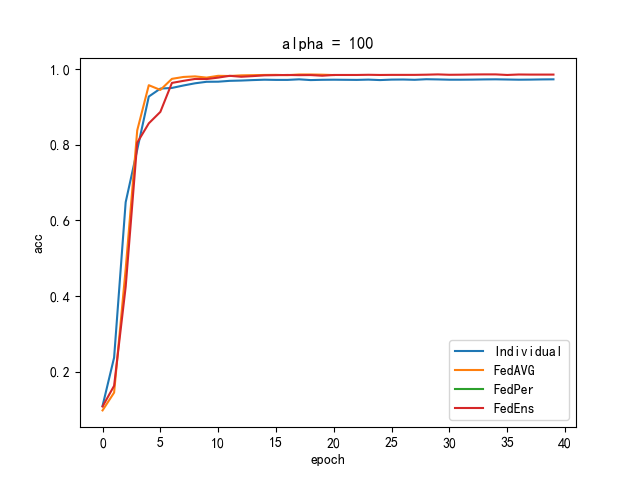
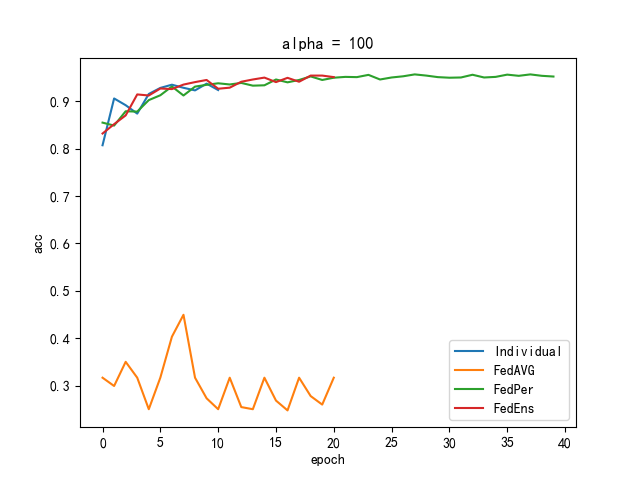
'add'

diff --git a/show_result.py b/show_result.py
@@ -16,28 +16,28 @@ mpl.rcParams['font.family'] = 'SimHei'
 plt.rcParams['axes.unicode_minus'] = False
 if __name__ == '__main__':
 
-    # file_name = {
-    #     # f'Z:\zhangxingyan\Fed_ensemble\save/Result_dataset(cifar10)_N(4)_E(1)_trainnum(1000)_P(1)_lr(0.01)_name(cifar10_alpha_d_100_P_1).json',
-    #     "Individual":
-    #         f'Z:\zhangxingyan\Fed_ensemble\save/Result_dataset(cifar10)_N(4)_E(1)_trainnum(1000)_P(0)_lr(0.01)_name(cifar10_alpha_d_100_P_0).json',
-    #     "FedAVG":
-    #         f'Z:\zhangxingyan\Fed_ensemble\save/Result_dataset(cifar10)_N(4)_E(1)_trainnum(1000)_P(1)_lr(0.01)_name(cifar10_alpha_d_100_P_1).json',
-    #     "FedPer":
-    #         f'Z:\zhangxingyan\Fed_ensemble\save/Result_dataset(cifar10)_N(4)_E(1)_trainnum(1000)_P(3)_lr(0.01)_name(cifar10_alpha_d_100_P_3).json',
-    #     "FedEns":
-    #         f'Z:\zhangxingyan\Fed_ensemble\save/Result_dataset(cifar10)_N(4)_E(1)_trainnum(1000)_P(2)_lr(0.01)_name(cifar10_alpha_d_100_P_2).json',
-    # }
-
     file_name = {
+        # f'Z:\zhangxingyan\Fed_ensemble\save/Result_dataset(cifar10)_N(4)_E(1)_trainnum(1000)_P(1)_lr(0.01)_name(cifar10_alpha_d_0.01_P_1).json',
         "Individual":
-            f'Z:\zhangxingyan\Fed_ensemble\save/Result_dataset(mnist)_N(4)_E(1)_trainnum(1000)_P(0)_lr(0.01)_name(mnist_alpha_d_100_P_0).json',
+            f'Z:\zhangxingyan\Fed_ensemble\save/Result_dataset(cifar10)_N(4)_E(1)_trainnum(1000)_P(0)_lr(0.01)_name(cifar10_alpha_d_0.01_P_0).json',
         "FedAVG":
-            f'Z:\zhangxingyan\Fed_ensemble\save/Result_dataset(mnist)_N(4)_E(1)_trainnum(1000)_P(1)_lr(0.01)_name(mnist_alpha_d_100_P_1).json',
+            f'Z:\zhangxingyan\Fed_ensemble\save/Result_dataset(cifar10)_N(4)_E(1)_trainnum(1000)_P(1)_lr(0.01)_name(cifar10_alpha_d_0.01_P_1).json',
         "FedPer":
-            f'Z:\zhangxingyan\Fed_ensemble\save/Result_dataset(mnist)_N(4)_E(1)_trainnum(1000)_P(3)_lr(0.01)_name(mnist_alpha_d_100_P_3).json',
+            f'Z:\zhangxingyan\Fed_ensemble\save/Result_dataset(cifar10)_N(4)_E(1)_trainnum(1000)_P(3)_lr(0.01)_name(cifar10_alpha_d_0.01_P_3).json',
         "FedEns":
-            f'Z:\zhangxingyan\Fed_ensemble\save/Result_dataset(mnist)_N(4)_E(1)_trainnum(1000)_P(2)_lr(0.01)_name(mnist_alpha_d_100_P_2).json',
+            f'Z:\zhangxingyan\Fed_ensemble\save/Result_dataset(cifar10)_N(4)_E(1)_trainnum(1000)_P(2)_lr(0.01)_name(cifar10_alpha_d_0.01_P_2).json',
     }
+
+    # file_name = {
+    #     "Individual":
+    #         f'Z:\zhangxingyan\Fed_ensemble\save/Result_dataset(mnist)_N(4)_E(1)_trainnum(1000)_P(0)_lr(0.01)_name(mnist_alpha_d_0.01_P_0).json',
+    #     "FedAVG":
+    #         f'Z:\zhangxingyan\Fed_ensemble\save/Result_dataset(mnist)_N(4)_E(1)_trainnum(1000)_P(1)_lr(0.01)_name(mnist_alpha_d_0.01_P_1).json',
+    #     "FedPer":
+    #         f'Z:\zhangxingyan\Fed_ensemble\save/Result_dataset(mnist)_N(4)_E(1)_trainnum(1000)_P(3)_lr(0.01)_name(mnist_alpha_d_0.01_P_3).json',
+    #     "FedEns":
+    #         f'Z:\zhangxingyan\Fed_ensemble\save/Result_dataset(mnist)_N(4)_E(1)_trainnum(1000)_P(2)_lr(0.01)_name(mnist_alpha_d_0.01_P_2).json',
+    # }
     # name = ["Ensebmle model + fedavg","Ensemble model + personalize conv","Ensemble model + personalize conv and classifier","Ensemble model + personalize classifier"]
     # name = ["Fedavg","Personalize Classifier","Ensemble model + personalize conv and classifier","Ensemble model + personalize classifier"]
     # name = ['dnn','cnn']

diff --git a/readme.md b/readme.md
@@ -11,44 +11,44 @@
 
         python3 main.py  --dataset cifar10 --num_classes 10 --epochs 200  --num_users 4 --local_ep 1 --local_bs 100 --train_num 1000 --lr 0.01 \
         --policy 0  \
-        --iid 0 --noniid dirichlet --alpha 100  \
-        --name cifar10_alpha_d_100_P_0
+        --iid 0 --noniid dirichlet --alpha 0.01  \
+        --name cifar10_alpha_d_0.01_P_0
 
         python3 main.py  --dataset cifar10 --num_classes 10 --epochs 200  --num_users 4 --local_ep 1 --local_bs 100 --train_num 1000 --lr 0.01 \
         --policy 1   \
-        --iid 0 --noniid dirichlet --alpha 100  \
-        --name cifar10_alpha_d_100_P_1
+        --iid 0 --noniid dirichlet --alpha 0.01  \
+        --name cifar10_alpha_d_0.01_P_1
 
         python3 main.py  --dataset cifar10 --num_classes 10 --epochs 200  --num_users 4 --local_ep 1 --local_bs 100 --train_num 1000 --lr 0.01 \
         --policy 2   \
-        --iid 0 --noniid dirichlet --alpha 100  \
-        --name cifar10_alpha_d_100_P_2
+        --iid 0 --noniid dirichlet --alpha 0.01  \
+        --name cifar10_alpha_d_0.01_P_2
 
         python3 main.py  --dataset cifar10 --num_classes 10 --epochs 200  --num_users 4 --local_ep 1 --local_bs 100 --train_num 1000 --lr 0.01 \
         --policy 3   \
-        --iid 0 --noniid dirichlet --alpha 100  \
-        --name cifar10_alpha_d_100_P_3
+        --iid 0 --noniid dirichlet --alpha 0.01  \
+        --name cifar10_alpha_d_0.01_P_3
 
 # mnist 
         python3 main.py  --dataset mnist --num_classes 10 --epochs 200  --num_users 4 --local_ep 1 --local_bs 100 --train_num 1000 --lr 0.01 \
         --policy 0  \
-        --iid 0 --noniid dirichlet --alpha 100  \
-        --name mnist_alpha_d_100_P_0
+        --iid 0 --noniid dirichlet --alpha 0.01  \
+        --name mnist_alpha_d_0.01_P_0
 
         python3 main.py  --dataset mnist --num_classes 10 --epochs 200  --num_users 4 --local_ep 1 --local_bs 100 --train_num 1000 --lr 0.01 \
         --policy 1   \
-        --iid 0 --noniid dirichlet --alpha 100  \
-        --name mnist_alpha_d_100_P_1
+        --iid 0 --noniid dirichlet --alpha 0.01  \
+        --name mnist_alpha_d_0.01_P_1
 
         python3 main.py  --dataset mnist --num_classes 10 --epochs 200  --num_users 4 --local_ep 1 --local_bs 100 --train_num 1000 --lr 0.01 \
         --policy 2   \
-        --iid 0 --noniid dirichlet --alpha 100  \
-        --name mnist_alpha_d_100_P_2
+        --iid 0 --noniid dirichlet --alpha 0.01  \
+        --name mnist_alpha_d_0.01_P_2
 
         python3 main.py  --dataset mnist --num_classes 10 --epochs 200  --num_users 4 --local_ep 1 --local_bs 100 --train_num 1000 --lr 0.01 \
         --policy 3   \
-        --iid 0 --noniid dirichlet --alpha 100  \
-        --name mnist_alpha_d_100_P_3
+        --iid 0 --noniid dirichlet --alpha 0.01  \
+        --name mnist_alpha_d_0.01_P_3
 
 
 更换模型之前
@@ -61,32 +61,32 @@
 ####     执行命令
         python3 main.py  --dataset cifar10 --num_classes 10 --epochs 200  --num_users 4 --local_ep 1 --local_bs 100 --train_num 1000 --lr 0.01 \
         --policy 1   \
-        --iid 0 --noniid dirichlet --alpha 100  \
-        --name cifar10_alpha_d_100_P_1
+        --iid 0 --noniid dirichlet --alpha 0.01  \
+        --name cifar10_alpha_d_0.01_P_1
 
         python3 main.py  --dataset cifar10 --num_classes 10 --epochs 200  --num_users 4 --local_ep 1 --local_bs 100 --train_num 1000 --lr 0.01 \
         --policy 2   \
-        --iid 0 --noniid dirichlet --alpha 100  \
-        --name cifar10_alpha_d_100_P_2
+        --iid 0 --noniid dirichlet --alpha 0.01  \
+        --name cifar10_alpha_d_0.01_P_2
 
         python3 main.py  --dataset cifar10 --num_classes 10 --epochs 200  --num_users 4 --local_ep 1 --local_bs 100 --train_num 1000 --lr 0.01 \
         --policy 3   \
-        --iid 0 --noniid dirichlet --alpha 100  \
-        --name cifar10_alpha_d_100_P_3
+        --iid 0 --noniid dirichlet --alpha 0.01  \
+        --name cifar10_alpha_d_0.01_P_3
 
         python3 main.py  --dataset cifar10 --num_classes 10 --epochs 200  --num_users 4 --local_ep 1 --local_bs 100 --train_num 1000 --lr 0.01 \
         --policy 4   \
-        --iid 0 --noniid dirichlet --alpha 100  \
-        --name cifar10_alpha_d_100_P_4
+        --iid 0 --noniid dirichlet --alpha 0.01  \
+        --name cifar10_alpha_d_0.01_P_4
 
         python3 main.py  --dataset cifar10 --num_classes 10 --epochs 200  --num_users 4 --local_ep 1 --local_bs 100 --train_num 1000 --lr 0.01 \
         --policy 5   \
-        --iid 0 --noniid dirichlet --alpha 100  \
-        --name cifar10_alpha_d_100_P_5
+        --iid 0 --noniid dirichlet --alpha 0.01  \
+        --name cifar10_alpha_d_0.01_P_5
 
 ### 目前的实验结果
 
 ![img_4.png](img_4.png)
 ![img_5.png](img_5.png)
 ![img_6.png](img_6.png)
-![img_7.png](img_7.png)
+![img_8.png](img_8.png)
